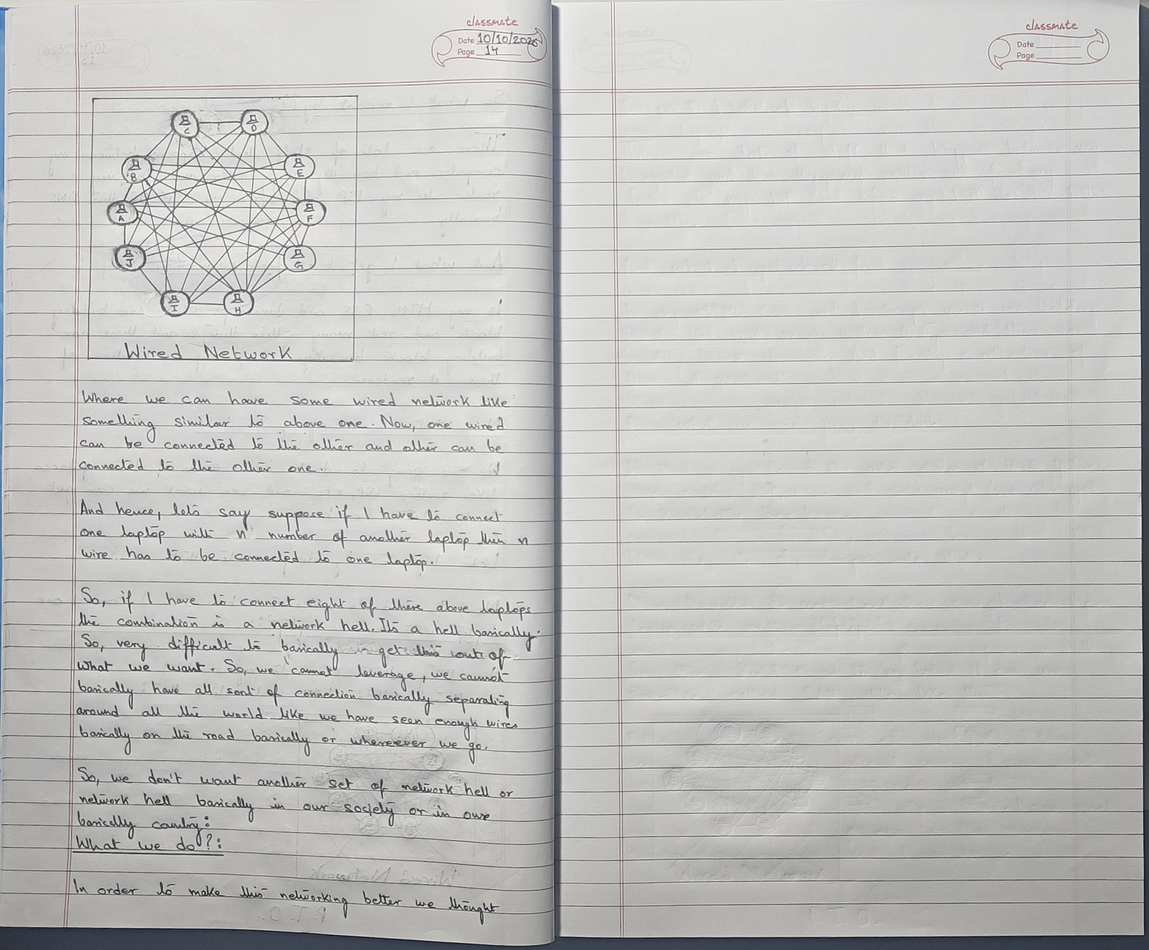
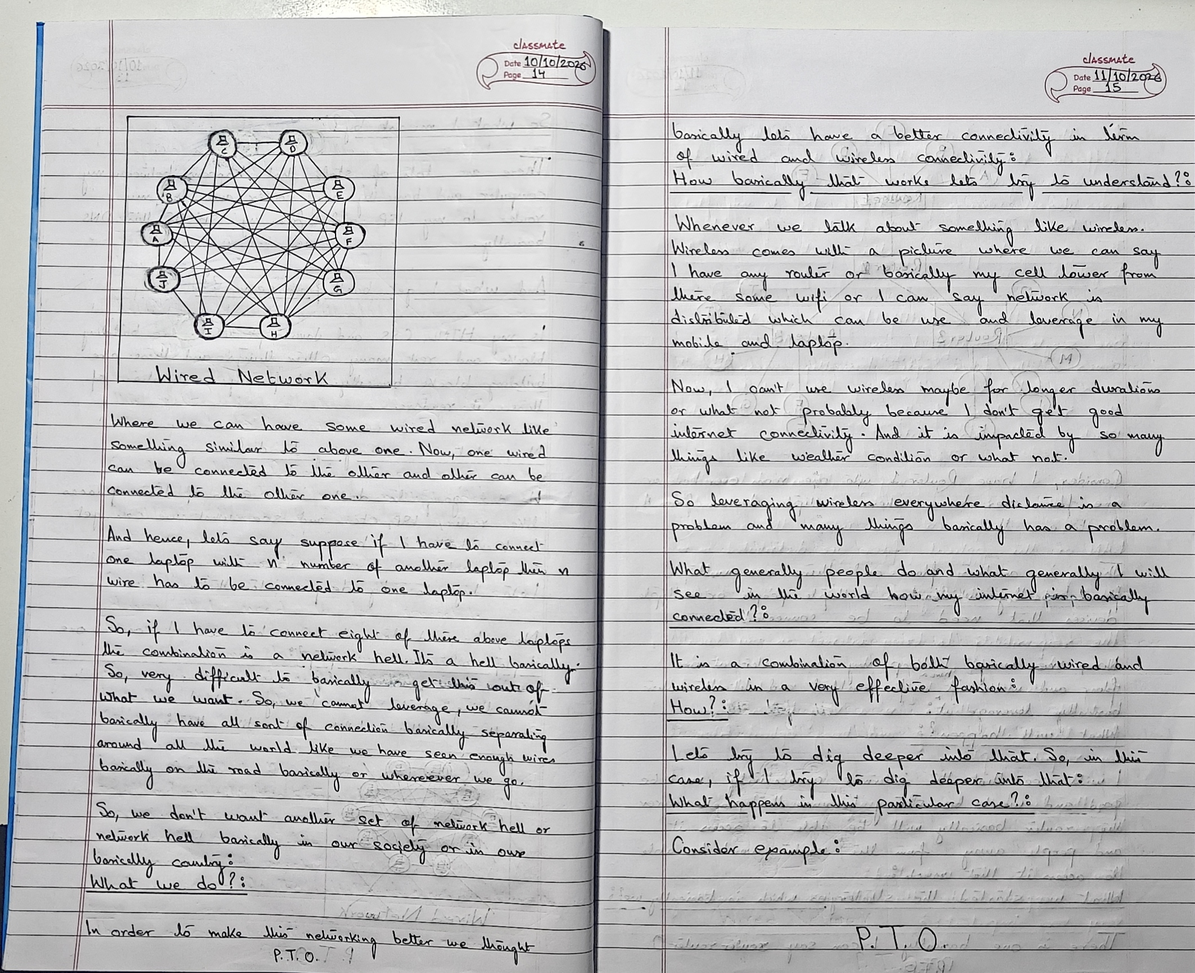
Add networking notes and page scans
Add notebook page spreads and expand the networking guide with notes on wired and wireless connectivity, router setups, ISP hubs, and the DNS hierarchy.

diff --git a/src/networking/how-the-web-works/README.md b/src/networking/how-the-web-works/README.md
@@ -419,3 +419,158 @@ The notebook begins this question at the bottom of page 14:
 “In order to make this networking better, we thought…”
 
 The explanation continues beyond the visible written content in the supplied images.
+
+### Wired network
+
+The diagram is titled **“Wired Network”** and shows multiple devices (labelled A–J) interconnected with many wires.
+
+In a wired network like the one shown, one wired device can be connected to another, and that device can be connected to another one.
+
+Suppose I have to connect one laptop with a number of other laptops. A wire has to be connected from each laptop to another laptop.
+
+If I have to connect eight laptops, the combination becomes a **network hell**. It becomes very difficult to get what we want.
+
+We cannot practically have all sorts of connections separating around the world, with wires on roads and wherever we go. We do not want another set of network connections—or “network hell”—in our society or country.
+
+### What do we do?
+
+In order to make this networking better, we thought about having better connectivity in terms of **wired and wireless connectivity**.
+
+### How does wireless connectivity work?
+
+Whenever we talk about something like wireless, imagine that I have my own router or connectivity from a cell tower. There may be Wi-Fi or a distributed network that I can use with my mobile and laptop.
+
+I cannot use wireless for longer durations in every situation because I may not get internet connectivity. It can also be affected by many things, such as weather conditions.
+
+Therefore, relying on wireless everywhere has problems; many things can affect it.
+
+### How is internet connectivity generally provided?
+
+In the real world, internet connectivity is a combination of both **wired and wireless** connections, used effectively.
+
+Let us dig deeper into what happens in this particular case.
+
+**Consider an example:** the notes continue on page 16.
+
+The diagram shows:
+
+- **Router 1** connected to devices **A, B, C, D, E**.
+- A central router (labelled **Router**) connected to Router 1, Router 2, and Router 3.
+- **Router 2** connected to devices **N, O, M, L, K**.
+- **Router 3** connected to devices **J, I, H, G, F**.
+
+Suppose Router 1 is in one room or on one floor, where multiple devices from A to E are present. There is another floor with multiple devices and people who need to connect.
+
+One way would be to keep one router on one floor, make it Wi-Fi enabled, and let people on the other floors use it.
+
+### What happens if only one router is used?
+
+The internet connectivity may not be good or strong. People nearer to the router may be able to access it, while people far away may not be able to access it that much.
+
+### What strategy can be used instead?
+
+The notes begin describing a strategy using a central router and other routers:
+
+- A central router connects to the other routers.
+- The central router distributes connectivity through a LAN cable.
+- The LAN cable goes directly to the different routers.
+
+The continuation explains that routers connected to the central router help create a **Wi-Fi network** or even a **LAN network**. Depending on feasibility and accessibility, multiple users, developers, and other people can connect and use the internet.
+
+### Example: A building with multiple floors
+
+Suppose a building has multiple floors.
+
+I have one central router, from which multiple LAN cables—or a special fiber-optic cable—go from one floor to another floor where the respective routers are located.
+
+Those routers are responsible for distributing Wi-Fi, allowing other people to connect using that Wi-Fi connectivity.
+
+The routers are connected through LAN cables or optical fiber. The notes describe this arrangement as useful.
+
+### Where does the optical fiber come from?
+
+The notes ask whether broadband connectivity or optical fiber comes directly from the ISP to the home. The explanation continues on page 18.
+
+### Why does fiber not come directly from the ISP to every home?
+
+The notes explain that it would not be practical for a separate set of wires to run from an ISP to every flat or home.
+
+Instead, an ISP may have a central/local hub—described as an **Airtel hub**, **Jio hub**, or a hub from another ISP provider. Many wires from the ISP do not need to run individually to every home.
+
+### LAN, optical fiber, and hubs
+
+From the ISP, a LAN connection or optical-fiber connection comes into a locality. Hubs are available to manage and route the connection.
+
+In a society or neighbourhood, there may be a system or large routers configured to distribute the respective LAN or optical-fiber connections across the area.
+
+The responsibility for bringing internet connectivity to a locality or society may be handled through these large routers or hubs. They distribute the connection more effectively and bring optical fiber to the respective places.
+
+This is how internet connectivity is provided in the described setup.
+
+### Next topic: DNS
+
+The notes now turn to understanding what happens inside **DNS**, described as a very important part of the process.
+
+### Looking up a domain name
+
+Suppose I type `google.com` in the browser. What happens, and what do I get back?
+
+Typing `google.com` gives me an IP address. The notes use this example:
+
+```text
+google.com → 142.250.190.78
+```
+
+Here, `google.com` is the **domain name**, and `142.250.190.78` is the IP address written in the notes.
+
+### Domain names have multiple parts
+
+A domain name has multiple parts. For example, a name may contain:
+
+- `www`
+- `google`
+- `com`
+
+These parts have different meanings and work at different levels of the hierarchy used by DNS.
+
+Inside DNS, the notes compare these levels to looking up a word in a physical dictionary. To find a word, I need to know how to navigate to the right place in the dictionary.
+
+Similarly, because there are many domain names across the world, they cannot all be kept in one dictionary or at the same level. They need to be distributed in some way.
+
+### Example: Finding the correct government department
+
+Suppose I need to report a complaint to the government sector. I should know which department handles that kind of complaint, and exactly which department I should contact.
+
+In the same way, I need to drill deeper to reach the right department, place, or domain where I can get the IP address.
+
+The notes continue the explanation:
+
+To reach the right department, place, or domain, I need to drill deeper until I can get the IP address.
+
+### DNS hierarchy diagram
+
+The diagram divides domain names into levels:
+
+```text
+Root domain
+    "."
+     |
+     v
+Top-level domains
+    .edu    .org    .gov    .com    .au
+     |
+     v
+Second-level domains
+    openoffice.org
+    expedia.gov
+    microsoft.com
+    congress.au
+     |
+     v
+Third-level domains
+    www.expedia.gov
+    download.microsoft.com
+    sales.microsoft.org
+```
+
+The handwritten diagram groups these names by **root domain**, **top-level domains**, **second-level domains**, and **third-level domains**. Examples are reproduced as written in the notebook.
